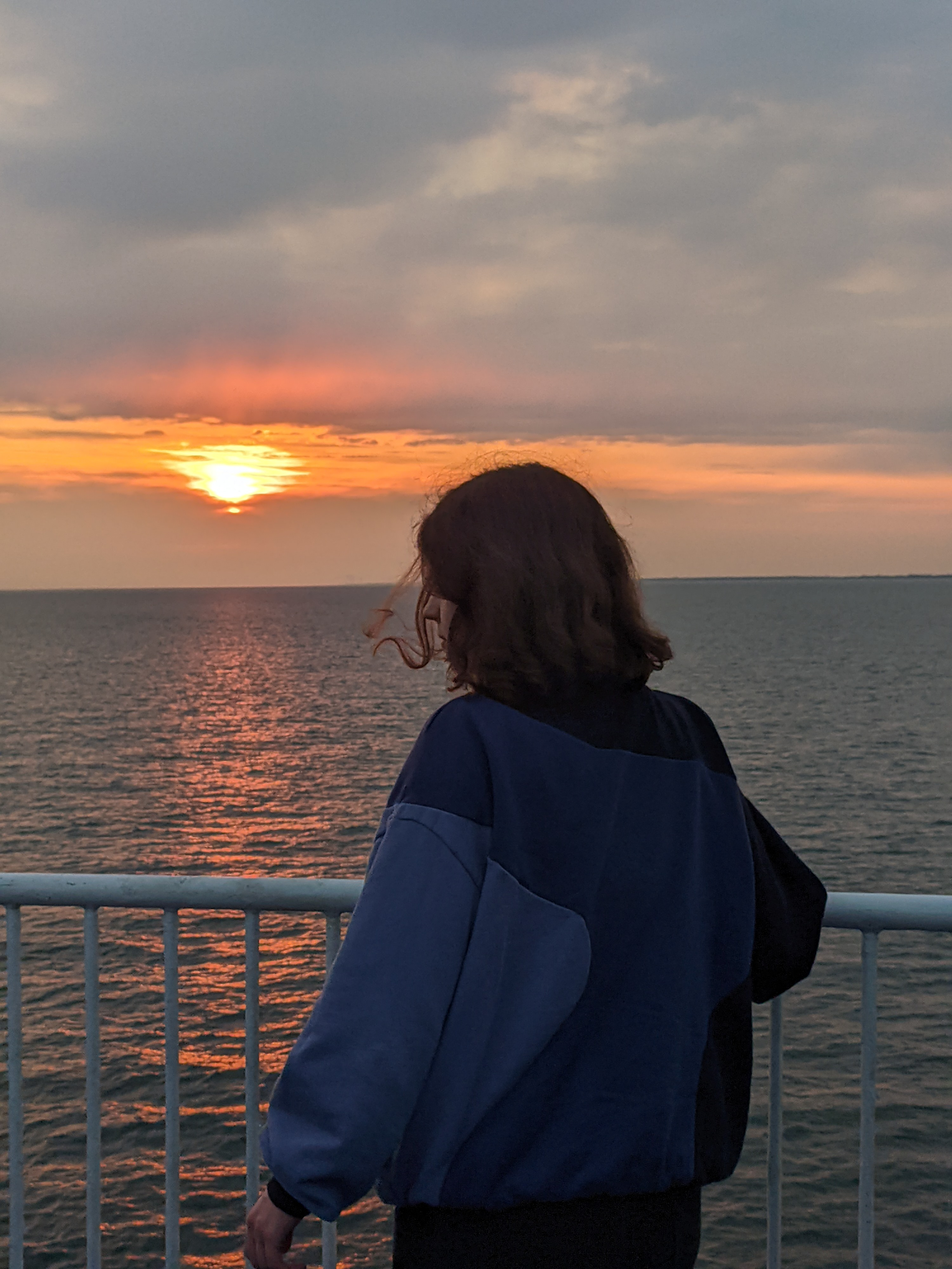
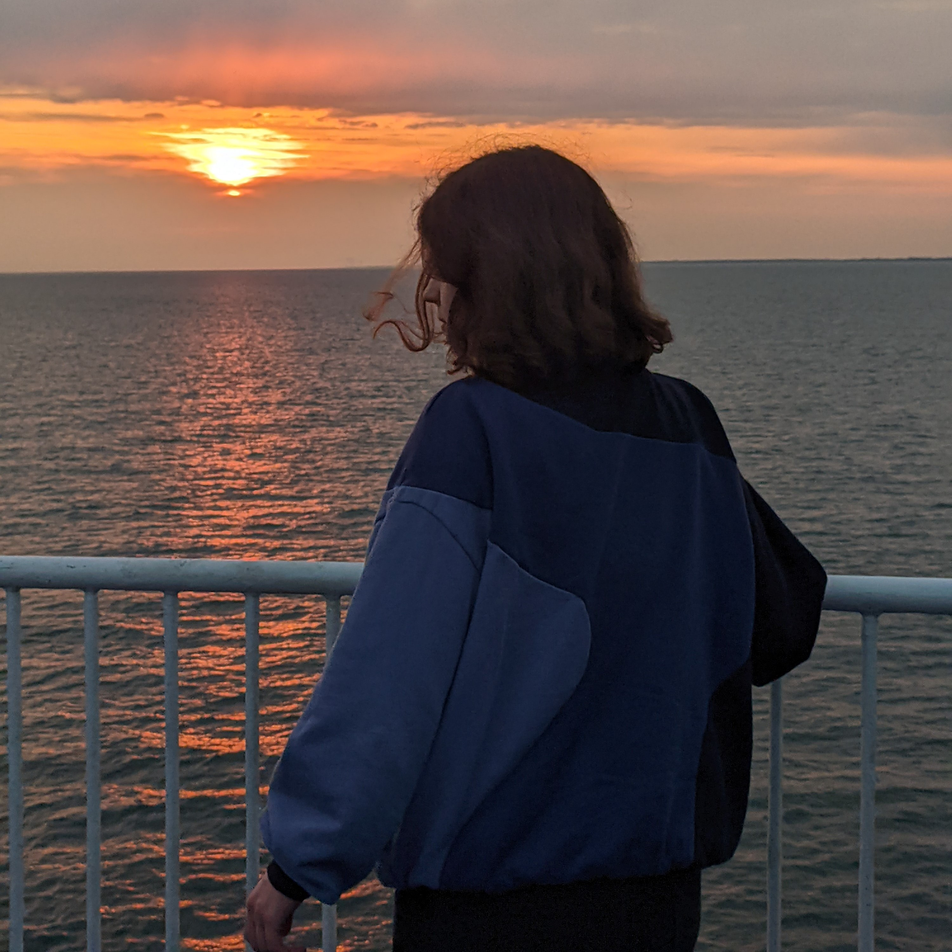
added a form to the contact page, added a link to the github, improved size of images

diff --git a/contact.html b/contact.html
@@ -4,7 +4,10 @@
     <meta charset="UTF-8" />
     <meta http-equiv="X-UA-Compatible" content="IE=edge" />
     <meta name="viewport" content="width=device-width, initial-scale=1.0" />
-    <meta name="description" content="Contact Veronika — a front-end engineer from Ukraine based in Germany. ">
+    <meta
+      name="description"
+      content="Contact Veronika — a front-end engineer from Ukraine based in Germany. "
+    />
     <link
       href="https://cdn.jsdelivr.net/npm/bootstrap@5.3.0-alpha3/dist/css/bootstrap.min.css"
       rel="stylesheet"
@@ -81,33 +84,44 @@
       <div class="contact-content">
         <div class="row">
           <div class="col-lg-6">
-           <h1>Let's get in touch!</h1>
+            <h1>Let's get in touch!</h1>
             <p class="contact-text">
-            If you are interested in collaborating with me on a project, want me
-            to be the front-end developer for your project or company, or want
-            to work with me, feel free to reach out via the following channels!
+              If you are interested in collaborating with me on a project, want
+              me to be the front-end developer for your project or company, or
+              want to work with me, feel free to reach out via the following
+              channels!
             </p>
           </div>
+
           <div class="col-lg-6">
-          <h3>Email</h3>
-          <p>
-           <a href="mailto:veronikaptc@gmail.com"> veronikaptc@gmail.com </a>
-          </p>
-          <h3>LinkedIn</h3>
-          <p>
-           <a
-              href="https://www.linkedin.com/in/veronika-potochniak-87721a218/"
-              target="_blank"
-           >
-             Veronika Potochniak
-           </a>
-          </p>
-          <h3>Instagram</h3>
-          <p>
-            <a href="https://www.instagram.com/viciousyouth" target="_blank">
-            @viciousyouth
-            </a>
-          </p>
+            <form
+              action="https://formspree.io/f/mwkalajy"
+              method="POST"
+              class="border p-3 rounded mb-3"
+            >
+              <div class="mb-3">
+                <label class="form-label"> Your email: </label>
+                <input
+                  type="email"
+                  name="_replyto"
+                  class="form-control"
+                  required=""
+                  autofocus=""
+                />
+              </div>
+              <div class="mb-3">
+                <label class="form-label"> Your message: </label>
+                <textarea
+                  name="message"
+                  class="form-control"
+                  required=""
+                ></textarea>
+              </div>
+              <button type="submit" class="btn btn-branding-contact-form">
+                Send
+              </button>
+            </form>
+          </div>
         </div>
       </div>
       <footer>
@@ -164,6 +178,12 @@
           >
             <i class="fa-brands fa-facebook icon"></i>
           </a>
+        </div>
+        <div class="git-link">
+          This website was coded by Veronika Potochniak and is
+          <a href="https://github.com/nikakh13/portfolio-project-vp"
+            >open-sourced</a
+          >
         </div>
       </footer>
     </div>

diff --git a/index.html b/index.html
@@ -104,7 +104,13 @@
               they live in Bookmarksgrove right at the coast of the Semantics, a
               large language ocean. A small river named Duden flows by
             </p>
-            <a href="" class="btn btn-projects"> Learn more </a>
+            <a
+              href="https://main--gilded-dasik-0d6168.netlify.app"
+              class="btn btn-projects"
+              target="_blank"
+            >
+              Learn more
+            </a>
           </div>
         </div>
       </div>
@@ -121,6 +127,7 @@
             <a
               href="https://main--capable-taffy-4d26eb.netlify.app"
               class="btn btn-projects"
+              target="_blank"
             >
               Learn more
             </a>
@@ -205,6 +212,12 @@
           >
             <i class="fa-brands fa-facebook icon"></i>
           </a>
+        </div>
+        <div class="git-link">
+          This website was coded by Veronika Potochniak and is
+          <a href="https://github.com/nikakh13/portfolio-project-vp"
+            >open-sourced</a
+          >
         </div>
       </footer>
     </div>

diff --git a/src/styles.css b/src/styles.css
@@ -219,6 +219,20 @@ footer .contact-box {
   margin-bottom: 58px;
 }
 
+.git-link {
+  text-align: center;
+  margin-top: 13px;
+  font-size: 12px;
+}
+
+.git-link a {
+  color: #d0baac;
+}
+
+.git-link a:hover {
+  color: var(--main-color);
+}
+
 .email-link-footer {
   color: var(--main-color);
   font-size: 24px;
@@ -242,6 +256,26 @@ footer .contact-box {
 
 .btn-branding:hover {
   border: 1px solid var(--main-color);
+}
+
+.btn-branding-contact-form {
+  background: var(--main-color);
+  border-radius: 15px;
+  color: var(--background);
+  font-size: 15px;
+  line-height: 16px;
+  padding: 15px 30px;
+  margin-top: 10px;
+  margin-bottom: 10px;
+  border: 1px solid var(--main-color);
+}
+
+.btn-branding-contact-form:hover {
+  border: 1px solid var(--main-color);
+}
+
+.border {
+  border: 0px !important;
 }
 
 .navbar-brand {

diff --git a/projects.html b/projects.html
@@ -169,6 +169,12 @@
             <i class="fa-brands fa-facebook icon"></i>
           </a>
         </div>
+        <div class="git-link">
+          This website was coded by Veronika Potochniak and is
+          <a href="https://github.com/nikakh13/portfolio-project-vp"
+            >open-sourced</a
+          >
+        </div>
       </footer>
     </div>
     <script

diff --git a/about.html b/about.html
@@ -161,6 +161,12 @@
             <i class="fa-brands fa-facebook icon"></i>
           </a>
         </div>
+        <div class="git-link">
+          This website was coded by Veronika Potochniak and is
+          <a href="https://github.com/nikakh13/portfolio-project-vp"
+            >open-sourced</a
+          >
+        </div>
       </footer>
     </div>
 
